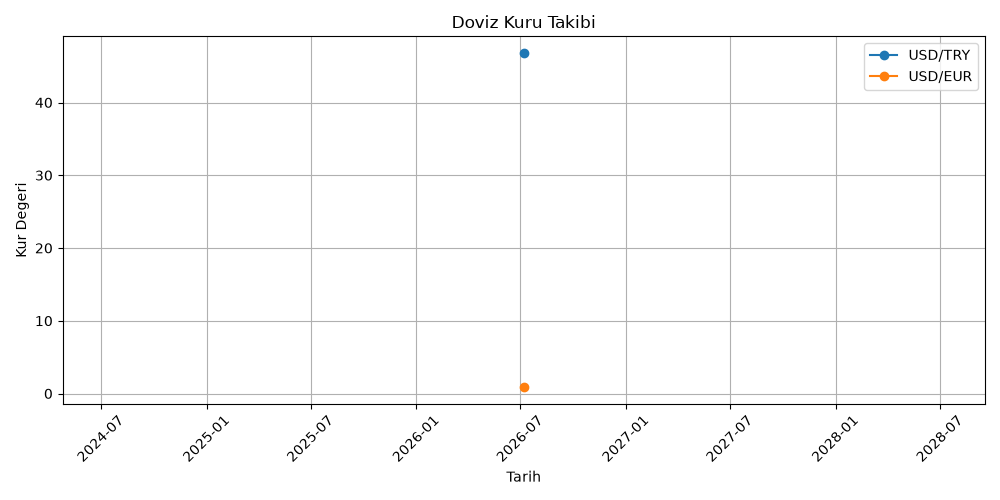
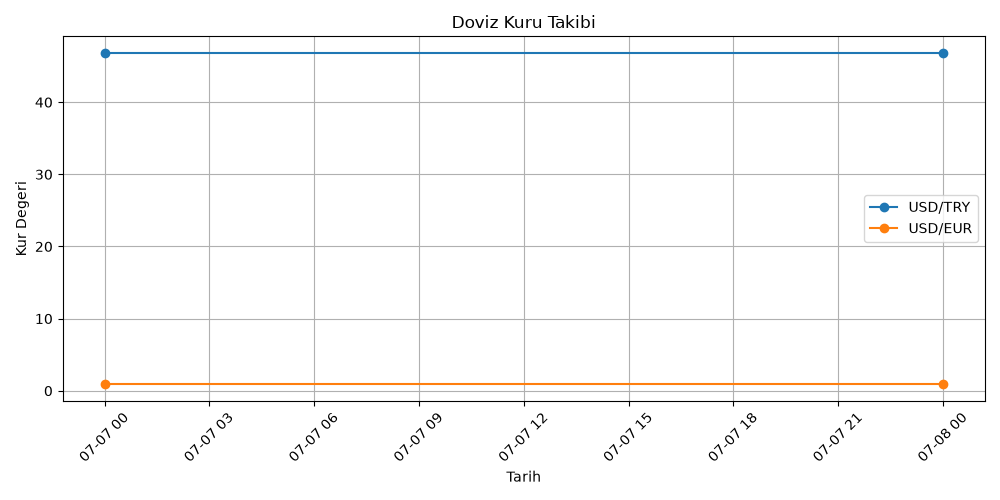
Gun 4: Basit moving average tahmin scripti eklendi

diff --git a/predict_simple.py b/predict_simple.py
@@ -1,0 +1,19 @@
+import pandas as pd
+
+df = pd.read_csv("kur_verisi.csv")
+df["date"] = pd.to_datetime(df["date"])
+df = df.sort_values("date")
+
+print("=== Basit Tahmin (Moving Average) ===\n")
+
+window = min(3, len(df))  # veri azsa mevcut kadarini kullan
+
+for col, label in [("usd_try", "USD/TRY"), ("usd_eur", "USD/EUR")]:
+    ma = df[col].tail(window).mean()
+    son_deger = df[col].iloc[-1]
+    print(f"--- {label} ---")
+    print(f"Son deger: {son_deger:.4f}")
+    print(f"Son {window} gunun ortalamasi (tahmin): {ma:.4f}")
+    print()
+
+print(f"Not: Sadece {len(df)} veri noktasi var, tahmin guvenilirligi veri arttikca artacak.")